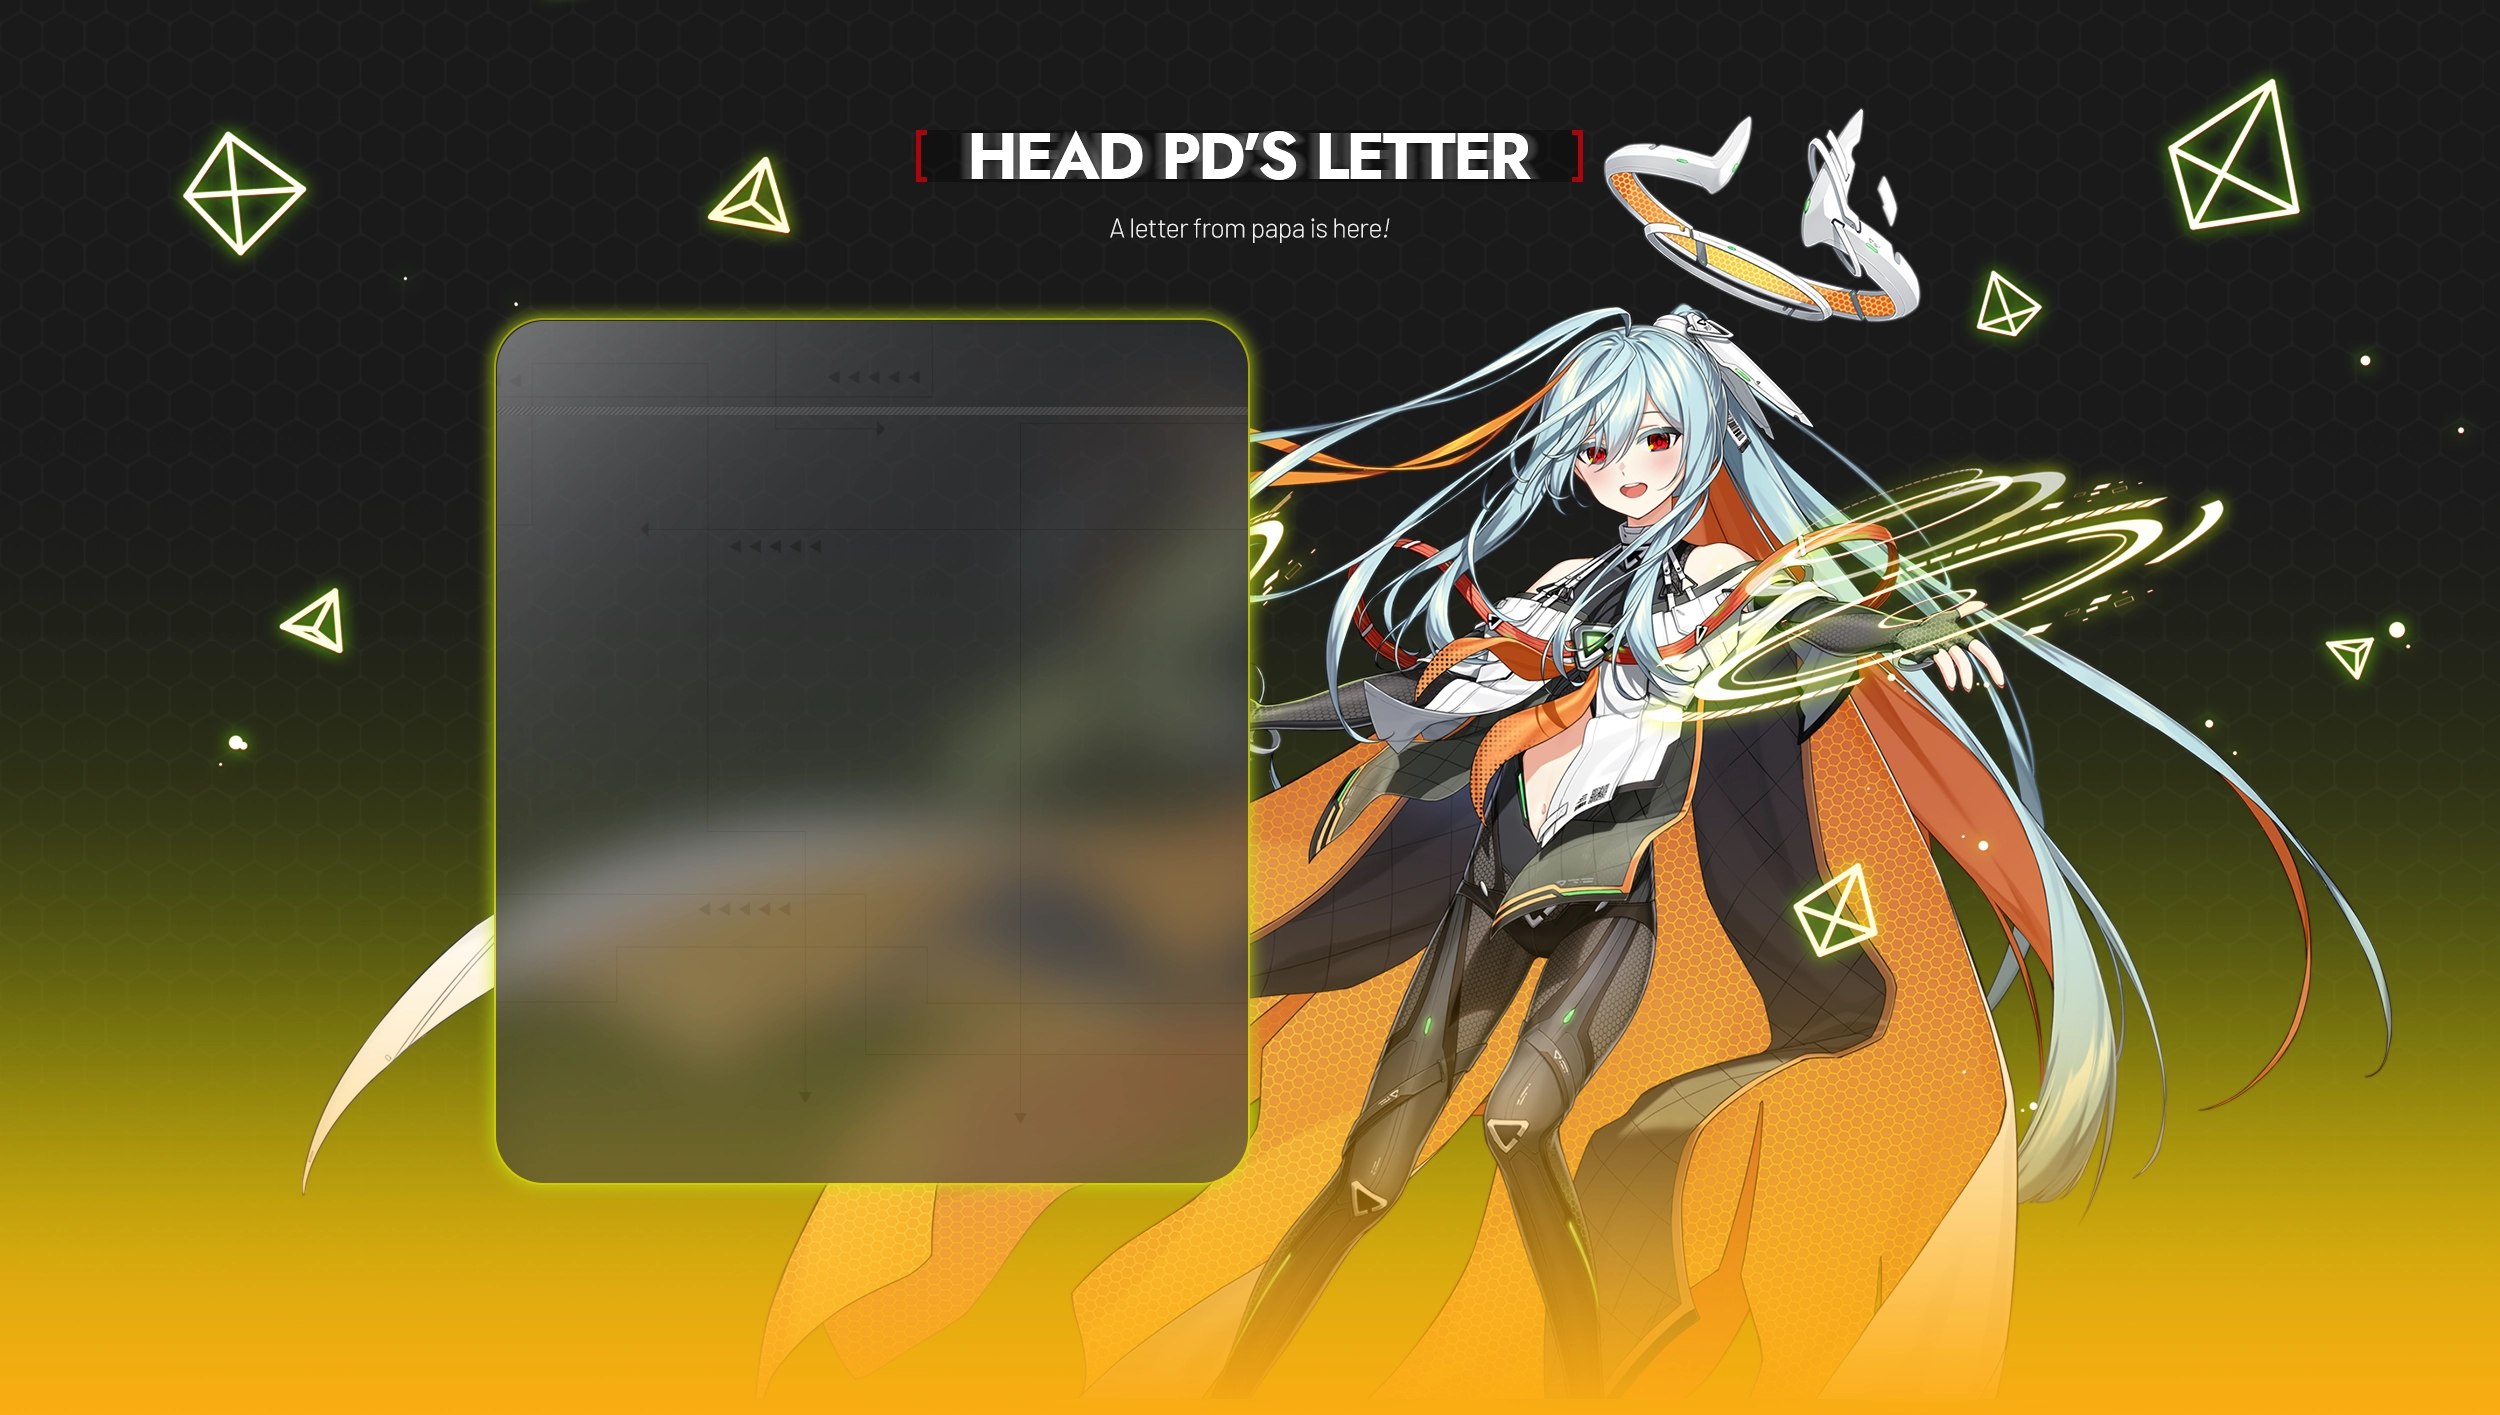
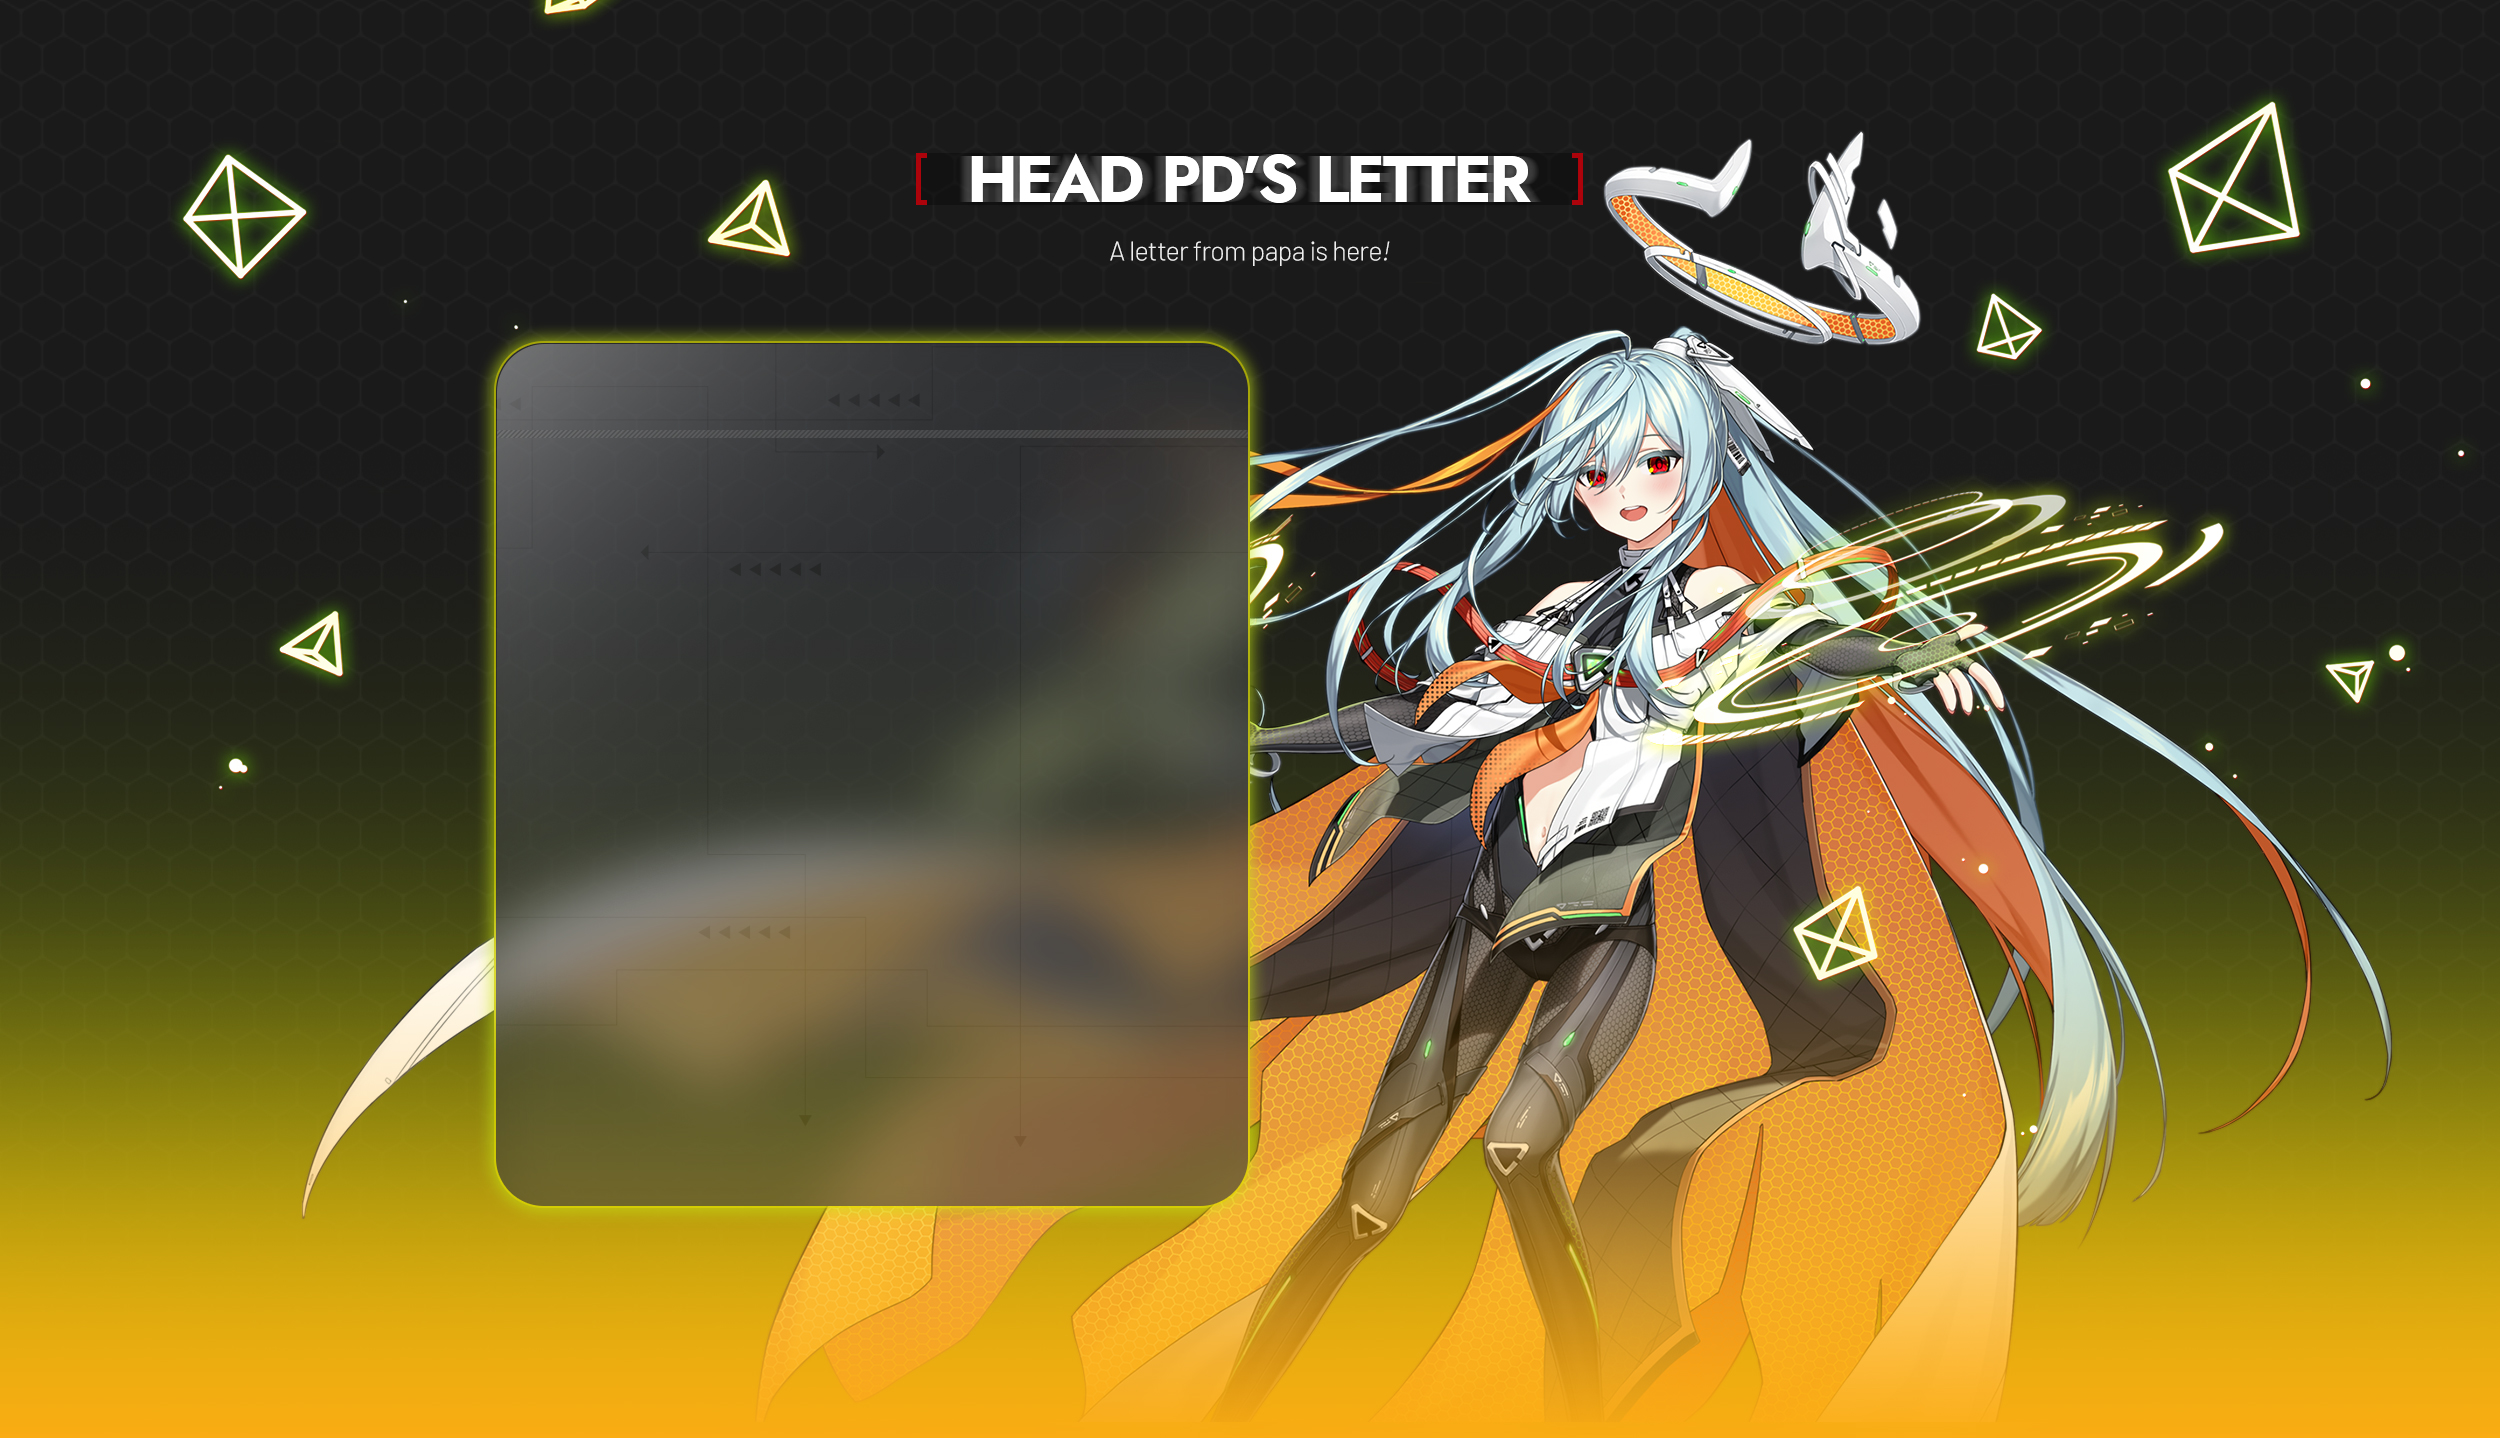
배경 이미지 짤림 수정

diff --git a/resources/css/style.css b/resources/css/style.css
@@ -94,7 +94,7 @@ input,button {font-family: 'Barlow', sans-serif;}
 .main_gallery .owl-carousel .owl-dots button.active {background-color:#ac030b;height:12px;}
 
 .main_letter {position:relative;margin:0 auto;width:100%;max-width:2500px;height:1415px;overflow:hidden;display:flex;justify-content:center;background:url(../img/bg_letter.webp) 50% 0 no-repeat;}
-.main_letter .letter_area {position: absolute;top: 394px;left: 50%;width: 630px;margin-left: -692px;color: #fff;}
+.main_letter .letter_area {position: absolute;top: 418px;left: 50%;width: 630px;margin-left: -692px;color: #fff;}
 .main_letter .letter_area .letter_tt {font-size:35px;margin-bottom:30px;font-weight:800;}
 .main_letter .letter_area p {margin:0;font-size: 22px;line-height:27px;font-weight:400;}
 
